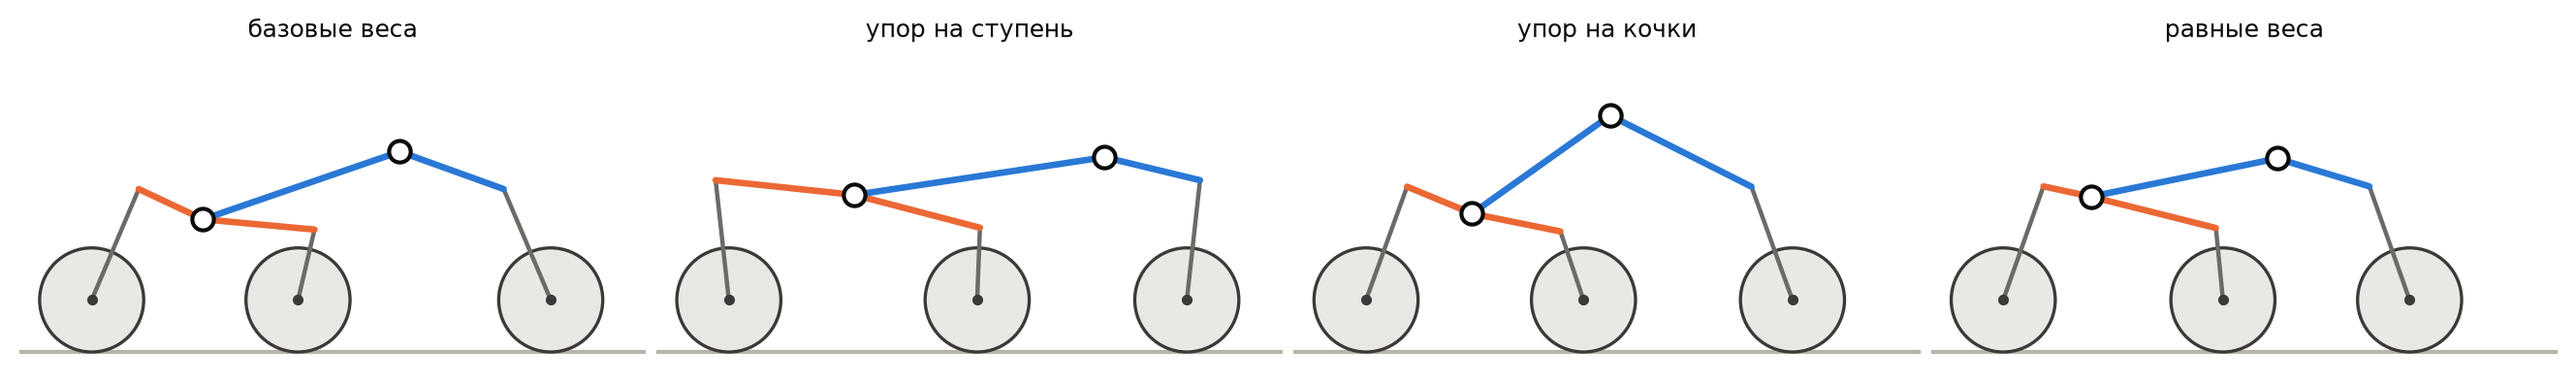
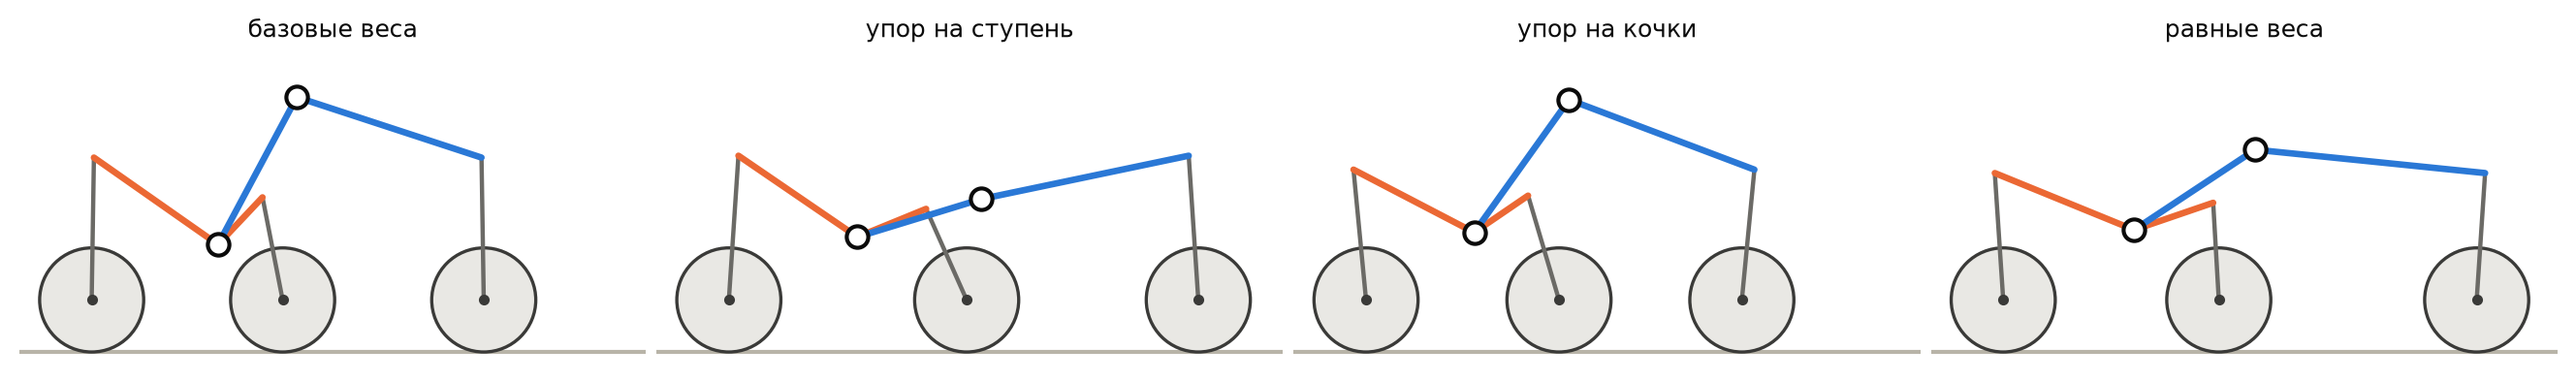
График весов × seed: граница поиска кочки 300 мм

diff --git a/report/plots.py b/report/plots.py
@@ -56,6 +56,7 @@ KIND_TITLES = {"step_up": "ступень", "step_down": "съезд", "ditch": 
 REFERENCE_LABELS = {"variant3": "геометрия A", "run_hand_s2": "геометрия B", "run_random1_s1": "геометрия C",
                     "run_w_equal": "геометрия D"}
 WHEELS_KG = 6 * 4.0
+BUMP_CEILING_MM = 300.0  # UPPER["bump_250"] в compute.py
 
 
 def load(name: str) -> dict | None:
@@ -176,10 +177,14 @@ def plot_weights() -> None:
             ax.scatter([v["step_up"] for v in values], [v["bump_250"] for v in values], s=60, color=SERIES[index],
                        marker=MARKERS[index], edgecolors="white", linewidths=1.5, zorder=3,
                        label=WEIGHT_LABELS[weights])
+    # Кочка ищется не выше 300 мм: точки на этой линии упёрлись в границу поиска, а не в предел.
+    ax.axhline(BUMP_CEILING_MM, color=MUTED, linewidth=1.0, linestyle="--")
+    ax.annotate("граница поиска", (0, BUMP_CEILING_MM), xytext=(4, -10), textcoords="offset points",
+                fontsize=8, color=MUTED)
     ax.set_xlabel("Наибольшая ступень, мм")
     ax.set_ylabel("Наибольшая кочка 250 мм, мм")
     ax.set_xlim(left=0)
-    ax.set_ylim(bottom=0)
+    ax.set_ylim(0, BUMP_CEILING_MM * 1.08)
     ax.legend(title="Веса (3 seed каждый)", loc="center left", bbox_to_anchor=(1.01, 0.5), fontsize=8)
     save(fig, "fig_weights")
 
